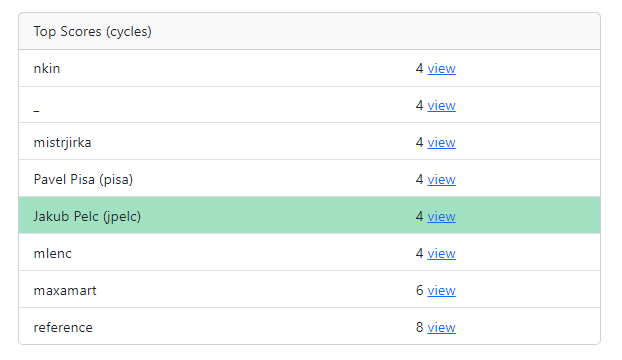
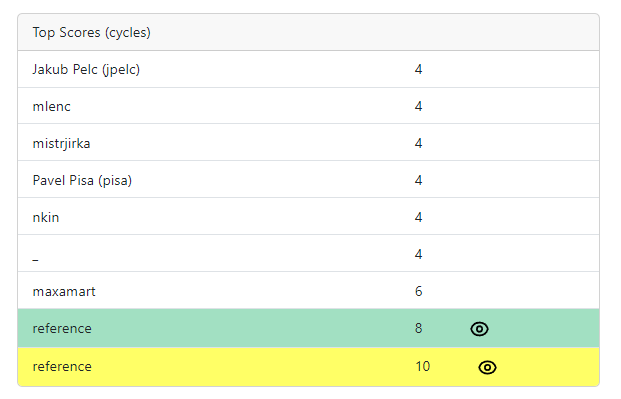
added admin panel, re-evaluation, scoreboard and profile page info  to docs

diff --git a/docs/WebEval/dev/admin-panel.md b/docs/WebEval/dev/admin-panel.md
@@ -8,4 +8,66 @@ outline: deep
 
 ## Access to admin panel
 
-All user that have the `is admin` flag set in the database have access to this
+All user that have the `is admin` flag set in the database have access to this. The admin panel is located at `/admin`.
+
+### User management
+
+Select a user from the dropdown menu and click on the neighboring button to ban or unban the user.
+
+![ban unban](../ban-unban.png)
+
+Similar input fields are available for country and organization reset.
+
+#### User groups
+
+Users can be managed into groups and organizations by a `Set group for user` section. Users select a country and organization on their [profile page](../user/profile.md), they can then be assigned into study groups by an administrator.
+
+::: note
+Users are able to select their country and organization only from a select list defined in `/web/static/organizations.json`. If you need to add another organization to the list you can do so in the following format:
+```json
+{
+		"web_pages": [
+			"https://fel.cvut.cz/en"
+		],
+		"name": "FEE CTU in Prague",
+		"alpha_two_code": "CZ",
+		"state-province": null,
+		"domains": [
+			"cvut.cz",
+			"fit.cvut.cz",
+			"fel.cvut.cz"
+		],
+		"country": "Czech Republic"
+}
+```
+The list of universities is managed by [university-domains-list](https://github.com/Hipo/university-domains-list).
+:::
+
+#### Reset user scores
+
+You can reset all user scores in the `Reset user scores` section. This automatically invalidates all results of a specific user.
+
+::: details
+This marks all submissions by a [result code `100`](../user/results.md/#evaluator-results) which is shown to the user as `Reset by admin`.
+:::
+
+![User groups](../image/usergroups.png)
+
+### Task re-evaluation and submission inspection
+
+Apart from access to the admin panel, administrators have also the ability to inspect all submissions by clicking the eye icon next to the score. They can also click on the arrow icon, to clear the score and set the task for re-evaluation.
+
+::: details
+The re-evaluate button sends a database query to queue up a new submission with the source code of the best submission of the user. This is done by sending a request to `/admin/reevaluate/<int:task_id>/<int:user_id>/<int:is_best>`, eg. for tid and uid both 1: `/admin/reevaluate/1/1/1`. You can force re-evaluation of the latest submission by changing the `is_best` parameter to `0` : `/admin/reevaluate/1/1/0`.
+:::
+
+### Changing the task order, creating and renaming the tasks
+
+You can change the task order, by dragging the tasks in the table on the right side of the page. After you arrange the tasks in the desired order, click on the corresponding button to save the changes.
+
+Task creation, renaming and path changes can be managed by the buttons below the task table.
+
+::: warning
+In the task creation dialogs, no task is actually created. You need to manuall create a task `.toml` file in the `web/tasks/` directory. Then you enter the path to the file in the corresponding input field.
+:::
+

diff --git a/docs/WebEval/dev/tasks.md b/docs/WebEval/dev/tasks.md
@@ -18,6 +18,9 @@ The task file is a `.toml` file that contains the following fields.
 	- `name` - the name of the task
 	- `template` - path to a .S or .c file, that will be used as a template for the task
 	- `description` - the description of the task, can be styled using markdown, MathJax can also be used
+	- `c_solution` - (optional), if set to true, the task is set to be solved in C, `Makefile` and file to be present during compile time may be needed.
+	- `cache_max_size` - (optional), if set to some int number, sets the maximum size of the cache in the simulator (activates the cache settings in the evaluator)
+	- `submit_start` and `submit_end` - (optional), if set to a timestamp in a format of `2024-01-01T00:00:00Z` the task will be available for submission only in the given time frame
 
 - `[arguments]`
 	- `run` - arguments that will be passed to QtRVSim when evaluation the task, note that some arguments are required for certain functionalities, eg. `--d-regs` should be used, when reading the state of registers is needed. By default `--dump-cycles` is the minimal required argument in this section.
@@ -26,10 +29,6 @@ The task file is a `.toml` file that contains the following fields.
 	- `data_in` - data that will be passed to the task
 	- `data_out` - data that is expected as an output
 	- `description` - description of the input
-
-- `cache_max_size` - (optional), if set to some int number, sets the maximum size of the cache in the simulator (activates the cache settings in the evaluator)
-
-- `c_solution` - (optional), if set to true, the task is set to be solved in C, `Makefile` and file to be present during compile time may be needed.
 
 ### Simple preprocessor
 

diff --git a/docs/WebEval/user/scoreboard.md b/docs/WebEval/user/scoreboard.md
@@ -1,0 +1,42 @@
+---
+outline: deep
+---
+
+# Scoreboard
+
+This page shows the scoreboard of all users across all tasks.
+
+![scoreboard](../img/scoreboard.png)
+
+# Scoring algorithm
+
+Each task awards points to 5 users maximum. Only if there are multiple users with the same amount of cycles, the points are awared to all of them. This is done in groups with values of points decreasing from `6` by `1` for each group.
+
+::: details
+
+The scores are awared by the following algorithm:
+
+```plaintext
+1. Initialize an empty list for new results.
+2. If there are no results, return an empty list.
+3. Determine the worst score among the top 5 scores.
+4. Separate results into two groups:
+   - Group 1: Scores <= worst top 5 score.
+   - Group 2: Scores > worst top 5 score.
+5. Initialize points awarded to 6.
+6. Score Group 1:
+   - While Group 1 is not empty:
+     - Find the minimum score in Group 1.
+     - For each result with this score:
+       - Add to new results with current points.
+       - Remove from Group 1.
+     - Decrease points awarded by 1.
+7. Award 0 points to Group 2.
+8. Sort new results by points awarded in descending order (order is the same as by the number of cycles).
+9. Return new results.
+```
+:::
+
+## Scoreboard for organizations and study groups
+
+If you configured you organization on the [profile page](../user/profile.md), or you were assigned to a study group by an administrator, you can see the scoreboard for your organization or study group. You can find these scoreboard by clicking the corresponding link on the scoreboard page.

diff --git a/docs/WebEval/user/profile.md b/docs/WebEval/user/profile.md
@@ -1,0 +1,42 @@
+---
+outline: deep
+---
+
+# Profile page
+
+On this page you can customize your profile a little bit.
+
+![Profile page](../img/profile.png)
+
+## Display name change
+
+You can change your display name which is then displayed in the leaderboard.
+
+::: details
+The user name will always be displayed even if the display name is set. This is to prevent confusion in the leaderboard.
+
+The full name in the leader board is displayed as `display name (username)`.
+:::
+
+## Setting country, organization and a study group
+
+In this section, you can set the country and organization you are affiliated with. This will be your university. If you do not find your university in the list, please contact the administrator (most likely your teacher).
+
+::: note
+You can configure this only once, if you happen to make a mistake, please contact the administrator.
+:::
+
+Your teacher can then assign you into a study group.
+
+## Setting results privacy
+
+At the bottom of the page you can set a privacy level for your results.
+
+| Privacy level | Description |
+|---------------|-------------|
+| Public | Everyone can see your results |
+| Organization | Only users from your organization can see your results |
+| Study group | Only users from your study group can see your results |
+| Private | Only you can see your results |
+
+This influences the visibility of the [scoreboard](../scoreboard.md) and the [results](../results.md) page.

diff --git a/docs/WebEval/user/submit.md b/docs/WebEval/user/submit.md
@@ -26,7 +26,7 @@ In the middle of the page, there is a section for the results of your submission
 
 Here you can see the run times of other users that have submitted the task. You can see your best solution in green and your last in yellow.
 
-Your username is displayed in the brackets, your display name is displayed in displayed in front of it. If you click on view next to the score, you can see your submission, admins can see all submissions.
+Your username is displayed in the brackets, your display name is displayed in displayed in front of it. If you click on the eye icon, you can see your submission source code.
 
 ![Right](../img/uiright.png)
 

diff --git a/README.md b/README.md
@@ -44,7 +44,8 @@ Public version is running [here](https://eval.comparch.edu.cvut.cz).
 - [X] Add about page
 - [X] Move the whole evaluation into try - catch, if something goes (for some reason) horribly wrong
 - [X] Implement random testcases
-- [ ] Add a reevaluate button to invalidate a users result for a certain submission and run the evaluation again
+- [X] Add a reevaluate button to invalidate a users result for a certain submission and run the evaluation again
+- [ ] Implement a time window (deadline and start time) for the tasks - as optional parameters
 
 # Wiki page
 
